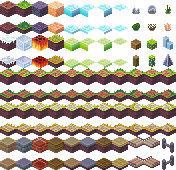
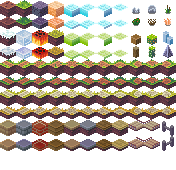
UI test

diff --git a/pages/index.js b/pages/index.js
@@ -1,59 +1,200 @@
 import Head from 'next/head'
 import Image from 'next/image'
+import Script from 'next/script'
 import Textbox from '../components/Textbox'
+import Layout from '../components/Layout'
 import styles from '../styles/Home.module.css'
 
 export default function Home() {
-  return (
-    <div className={styles.container}>
-      <Head>
-        <title>Create Next App</title>
-        <meta name="description" content="Generated by create next app" />
-        <link rel="icon" href="/favicon.ico" />
-      </Head>
 
-      <main className={styles.main}>
+  return (
+    <Layout>
+    
+    <Script id="make-road" strategy="lazyOnload">
+    {`
+      let type;  
+      let cells = document.getElementsByClassName("game_cell");
+      let demo = document.getElementsByClassName("demo")[0];
+      for (let i = 0; i < cells.length; i++) {
+          cells[i].onclick = ((e) => {
+          let elem = e.target.parentElement;
+          if (elem.classList.contains("select")) {
+              type = elem.classList[2];
+              demo.className = "game_cell"
+              demo.classList.add(type, "demo")
+              console.log(type);
+          } else {
+              elem.className = "game_cell"
+              elem.classList.add(type)
+      
+              console.log(elem)
+          }
+          })
+      }
+    `}
+    </Script>
+
+    <div className={styles.container}>
         <h1 className={styles.title}>
-          Welcome to <a href="https://nextjs.org">Next.js!</a>
+          TOWER OF ROGUE: TACTICS
         </h1>
 
-        <Textbox />
+        <Textbox>
+          <div class="board">
+            <div class="grid">
+              <div class="row">
+                <div class="game_cell"><div class="hover"></div></div>
+                <div class="game_cell"><div class="hover"></div></div>
+                <div class="game_cell"><div class="hover"></div></div>
+                <div class="game_cell"><div class="hover"></div></div>
+                <div class="game_cell"><div class="hover"></div></div>
+                <div class="game_cell"><div class="hover"></div></div>
+              </div>
+              <div class="row odd">
+                <div class="game_cell"><div class="hover"></div></div>
+                <div class="game_cell"><div class="hover"></div></div>
+                <div class="game_cell"><div class="hover"></div></div>
+                <div class="game_cell"><div class="hover"></div></div>
+                <div class="game_cell"><div class="hover"></div></div>
+                <div class="game_cell"><div class="hover"></div></div>
+              </div>
+              <div class="row">
+                <div class="game_cell"><div class="hover"></div></div>
+                <div class="game_cell"><div class="hover"></div></div>
+                <div class="game_cell"><div class="hover"></div></div>
+                <div class="game_cell"><div class="hover"></div></div>
+                <div class="game_cell"><div class="hover"></div></div>
+                <div class="game_cell"><div class="hover"></div></div>
+              </div>
+              <div class="row odd">
+                <div class="game_cell"><div class="hover"></div></div>
+                <div class="game_cell"><div class="hover"></div></div>
+                <div class="game_cell"><div class="hover"></div></div>
+                <div class="game_cell"><div class="hover"></div></div>
+                <div class="game_cell"><div class="hover"></div></div>
+                <div class="game_cell"><div class="hover"></div></div>
+              </div>
+              <div class="row">
+                <div class="game_cell"><div class="hover"></div></div>
+                <div class="game_cell"><div class="hover"></div></div>
+                <div class="game_cell"><div class="hover"></div></div>
+                <div class="game_cell"><div class="hover"></div></div>
+                <div class="game_cell"><div class="hover"></div></div>
+                <div class="game_cell"><div class="hover"></div></div>
+              </div>
+              <div class="row odd">
+                <div class="game_cell"><div class="hover"></div></div>
+                <div class="game_cell"><div class="hover"></div></div>
+                <div class="game_cell"><div class="hover"></div></div>
+                <div class="game_cell"><div class="hover"></div></div>
+                <div class="game_cell"><div class="hover"></div></div>
+                <div class="game_cell"><div class="hover"></div></div>
+              </div>
+              <div class="row">
+                <div class="game_cell"><div class="hover"></div></div>
+                <div class="game_cell"><div class="hover"></div></div>
+                <div class="game_cell"><div class="hover"></div></div>
+                <div class="game_cell"><div class="hover"></div></div>
+                <div class="game_cell"><div class="hover"></div></div>
+                <div class="game_cell"><div class="hover"></div></div>
+              </div>
+              <div class="row odd">
+                <div class="game_cell"><div class="hover"></div></div>
+                <div class="game_cell"><div class="hover"></div></div>
+                <div class="game_cell"><div class="hover"></div></div>
+                <div class="game_cell"><div class="hover"></div></div>
+                <div class="game_cell"><div class="hover"></div></div>
+                <div class="game_cell"><div class="hover"></div></div>
+              </div>
+              <div class="row">
+                <div class="game_cell"><div class="hover"></div></div>
+                <div class="game_cell"><div class="hover"></div></div>
+                <div class="game_cell"><div class="hover"></div></div>
+                <div class="game_cell"><div class="hover"></div></div>
+                <div class="game_cell"><div class="hover"></div></div>
+                <div class="game_cell"><div class="hover"></div></div>
+              </div>
+              <div class="row odd">
+                <div class="game_cell"><div class="hover"></div></div>
+                <div class="game_cell"><div class="hover"></div></div>
+                <div class="game_cell"><div class="hover"></div></div>
+                <div class="game_cell"><div class="hover"></div></div>
+                <div class="game_cell"><div class="hover"></div></div>
+                <div class="game_cell"><div class="hover"></div></div>
+              </div>
+              <div class="row">
+                <div class="game_cell"><div class="hover"></div></div>
+                <div class="game_cell"><div class="hover"></div></div>
+                <div class="game_cell"><div class="hover"></div></div>
+                <div class="game_cell"><div class="hover"></div></div>
+                <div class="game_cell"><div class="hover"></div></div>
+                <div class="game_cell"><div class="hover"></div></div>
+              </div>
+              <div class="row odd">
+                <div class="game_cell"><div class="hover"></div></div>
+                <div class="game_cell"><div class="hover"></div></div>
+                <div class="game_cell"><div class="hover"></div></div>
+                <div class="game_cell"><div class="hover"></div></div>
+                <div class="game_cell"><div class="hover"></div></div>
+                <div class="game_cell"><div class="hover"></div></div>
+              </div>
+              <div class="row">
+                <div class="game_cell"><div class="hover"></div></div>
+                <div class="game_cell"><div class="hover"></div></div>
+                <div class="game_cell"><div class="hover"></div></div>
+                <div class="game_cell"><div class="hover"></div></div>
+                <div class="game_cell"><div class="hover"></div></div>
+                <div class="game_cell"><div class="hover"></div></div>
+              </div>
+              <div class="row odd">
+                <div class="game_cell"><div class="hover"></div></div>
+                <div class="game_cell"><div class="hover"></div></div>
+                <div class="game_cell"><div class="hover"></div></div>
+                <div class="game_cell"><div class="hover"></div></div>
+                <div class="game_cell"><div class="hover"></div></div>
+                <div class="game_cell"><div class="hover"></div></div>
+              </div>
+              <div class="row">
+                <div class="game_cell"><div class="hover"></div></div>
+                <div class="game_cell"><div class="hover"></div></div>
+                <div class="game_cell"><div class="hover"></div></div>
+                <div class="game_cell"><div class="hover"></div></div>
+                <div class="game_cell"><div class="hover"></div></div>
+                <div class="game_cell"><div class="hover"></div></div>
+              </div>
+              <div class="row odd">
+                <div class="game_cell"><div class="hover"></div></div>
+                <div class="game_cell"><div class="hover"></div></div>
+                <div class="game_cell"><div class="hover"></div></div>
+                <div class="game_cell"><div class="hover"></div></div>
+                <div class="game_cell"><div class="hover"></div></div>
+                <div class="game_cell"><div class="hover"></div></div>
+              </div>
+              
+              
+              <div class="row"></div>
+              <div class="row"></div>
+              <div class="row"></div>
+              <div class="row"></div>
+              <div class="row odd">
+                <div class="game_cell select soil"><div class="hover hoverselect"></div></div>
+                <div class="game_cell select water"><div class="hover hoverselect"></div></div>
+                <div class="game_cell select road"><div class="hover hoverselect"></div></div>
+                <div class="game_cell select rock"><div class="hover hoverselect"></div></div>
+              </div>
+              <div class="selected">
+              <p>SELECTED<br />PIECE</p>
+                <div class="game_cell soil demo">
+                </div>
+            </div>
+            </div>
+          </div>
+        </Textbox>
 
-        <p className={styles.description}>
-          Get started by editing{' '}
-          <code className={styles.code}>pages/index.js</code>
-        </p>
+        
+        
+        
 
-        <div className={styles.grid}>
-          <a href="https://nextjs.org/docs" className={styles.card}>
-            <h2>Documentation &rarr;</h2>
-            <p>Find in-depth information about Next.js features and API.</p>
-          </a>
-
-          <a href="https://nextjs.org/learn" className={styles.card}>
-            <h2>Learn &rarr;</h2>
-            <p>Learn about Next.js in an interactive course with quizzes!</p>
-          </a>
-
-          <a
-            href="https://github.com/vercel/next.js/tree/master/examples"
-            className={styles.card}
-          >
-            <h2>Examples &rarr;</h2>
-            <p>Discover and deploy boilerplate example Next.js projects.</p>
-          </a>
-
-          <a
-            href="https://vercel.com/new?utm_source=create-next-app&utm_medium=default-template&utm_campaign=create-next-app"
-            className={styles.card}
-          >
-            <h2>Deploy &rarr;</h2>
-            <p>
-              Instantly deploy your Next.js site to a public URL with Vercel.
-            </p>
-          </a>
-        </div>
-      </main>
 
       <footer className={styles.footer}>
         <a
@@ -68,5 +209,6 @@ export default function Home() {
         </a>
       </footer>
     </div>
+    </Layout>
   )
 }

diff --git a/styles/globals.css b/styles/globals.css
@@ -5,12 +5,13 @@ body {
   padding: 0;
   margin: 0;
   image-rendering: pixelated;
+  --cell-size: 16px;
 }
 
 body {
   font-family: 'Press Start 2P', cursive;
   background-color: rgb(215, 255, 219);
-  filter: sepia(90%) hue-rotate(52deg);
+  filter: sepia(40%) hue-rotate(12deg);
   color: rgb(63, 63, 63);
   transform: perspective(9000px) translateZ(-9px);
 }
@@ -21,6 +22,74 @@ body {
 
 .border {
   border: 3px solid transparent;
-  border-image: url("https://github.com/bobbygraczyk/rogue-tactics/raw/master/public/set_2.png") 3 / 16px;
+  border-image: url("https://github.com/bobbygraczyk/rogue-tactics/raw/master/public/set_2.png") 4 / 16px;
   padding: 16px;
+}
+
+.game_cell, .soil {
+  background: url(../public/set_1.png) no-repeat;
+  background-position: 0px -1px;
+  height: 16px;
+  width: 16px;
+  background-size: 176px 170px;
+  display: inline-block;
+}
+
+.game_cell:hover > .hover {
+  background: url(../public/set_3.png) no-repeat;
+  background-size: 32px 25px;
+  background-position: 0px -16px;
+  height: 9px;
+  width: 16px;
+  display: inline-block;
+  position: relative;
+  top: -7px;
+}
+
+.row {
+  height: 4px;
+  display: block;
+}
+
+.odd {
+  padding-left: 8px;
+}
+
+.water {
+  background-position: calc(var(--cell-size) * -4) -1px;
+}
+
+.road {
+  background-position: calc(var(--cell-size) * -1) calc((var(--cell-size) * -4) + 4px);
+}
+
+.rock {
+  background-position: calc(var(--cell-size) * -2) -1px;
+}
+
+.grid {
+  width: 200px;
+  height: 200px;
+  transform: scale(8);
+  position: relative;
+  top: 700px;
+  left: 700px;
+}
+
+.board {
+  height: 800px;
+  width: 800px;
+}
+
+.select {
+  margin-right: 8px;
+}
+
+.selected {
+  font-size: 3px;
+  text-align: center;
+  position: relative;
+  top: -85px;
+  right: -100px;
+  width: 30px;
 }

diff --git a/public/functions.js b/public/functions.js
@@ -1,0 +1,19 @@
+let type;  
+let cells = document.getElementsByClassName("game_cell");
+let demo = document.getElementsByClassName("demo")[0];
+for (let i = 0; i < cells.length; i++) {
+    cells[i].onclick = ((e) => {
+    let elem = e.target.parentElement;
+    if (elem.classList.contains("select")) {
+        type = elem.classList[2];
+        demo.className = "game_cell"
+        demo.classList.add(type, "demo")
+        console.log(type);
+    } else {
+        elem.className = "game_cell"
+        elem.classList.add(type)
+
+        console.log(elem)
+    }
+    })
+}

diff --git a/components/Layout.js b/components/Layout.js
@@ -1,0 +1,15 @@
+import Head from 'next/head'
+
+export default function Layout({ children }) {
+    return (
+      <>
+      <Head>
+        <title>Rogue Tactics</title>
+        <meta name="description" content="Generated by create next app" />
+        <link rel="icon" href="/favicon.ico" />
+      </Head>
+      <main>{children}</main>
+        
+      </>
+    )
+  }

diff --git a/components/Textbox.js b/components/Textbox.js
@@ -1,9 +1,9 @@
 import Image from 'next/image'
 
-export default function Textbox() {
+export default function Textbox({ children }) {
     return (
         <div className="border textbox">
-            <p>A textbox!</p>
+            {children}
         </div>
     )
 }
